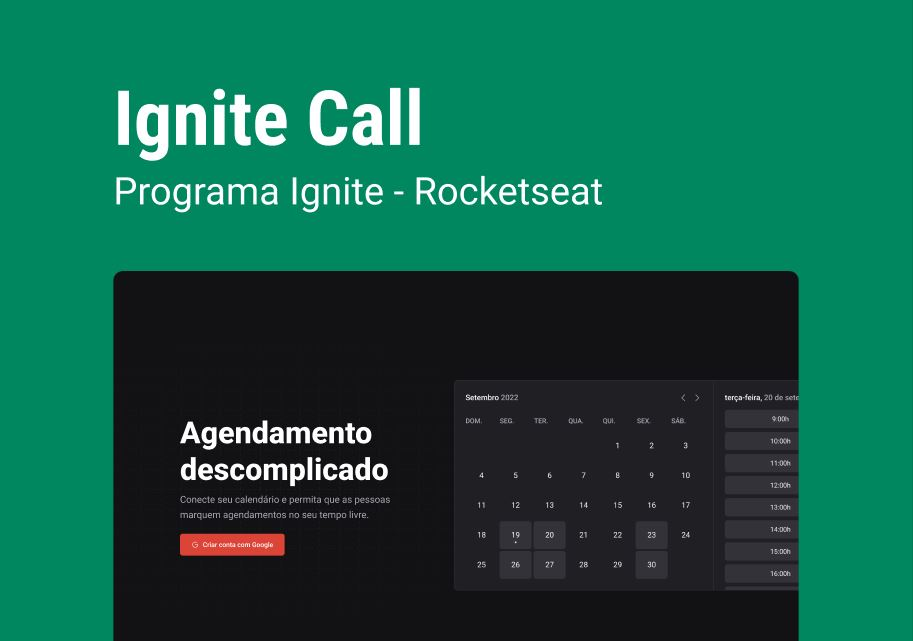
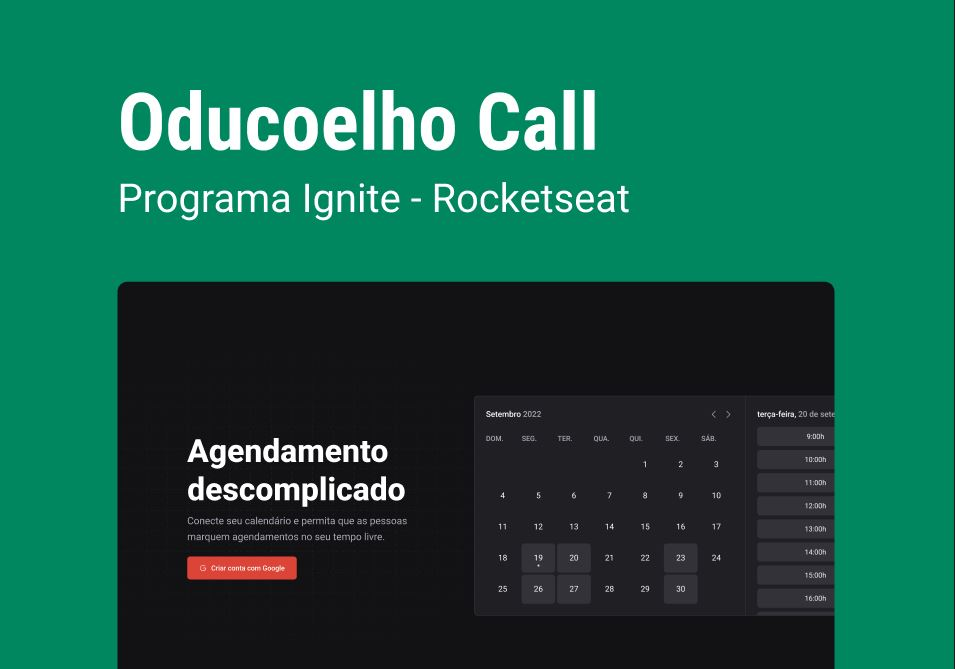
fixing error about orthographic

diff --git a/src/data/Cards.ts b/src/data/Cards.ts
@@ -6,8 +6,8 @@ import CoffeeDelivery from '../assets/portfolio/CoffeeDelivery.jpg'
 import IgniteTimer from '../assets/portfolio/IgniteTimer.jpg'
 import NLWCopa from '../assets/portfolio/NLWCopa.jpg'
 import NLWeSports from '../assets/portfolio/NLWEsports.jpg'
-import NLWSetup from '../assets/portfolio/oducoelhocall.jpg'
-import OducoelhoCall from '../assets/portfolio/nlwsetup.jpg'
+import OducoelhoCall from '../assets/portfolio/oducoelhocall.jpg'
+import NLWSetup from '../assets/portfolio/nlwsetup.jpg'
 
 
 import html from '../assets/html.png'  
